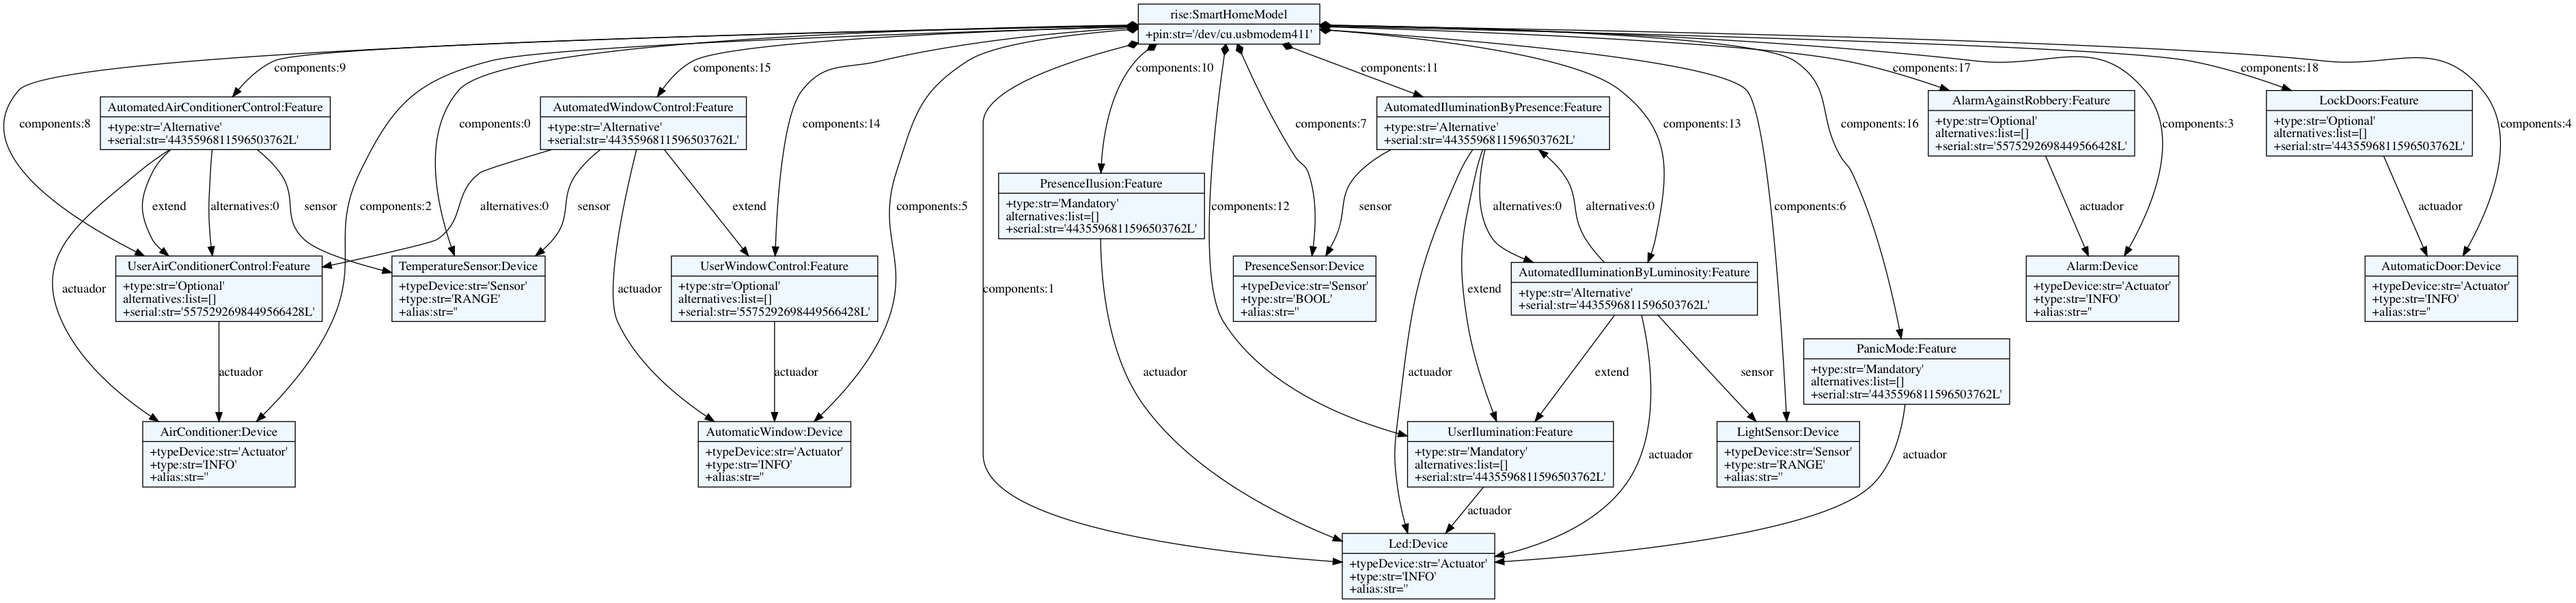
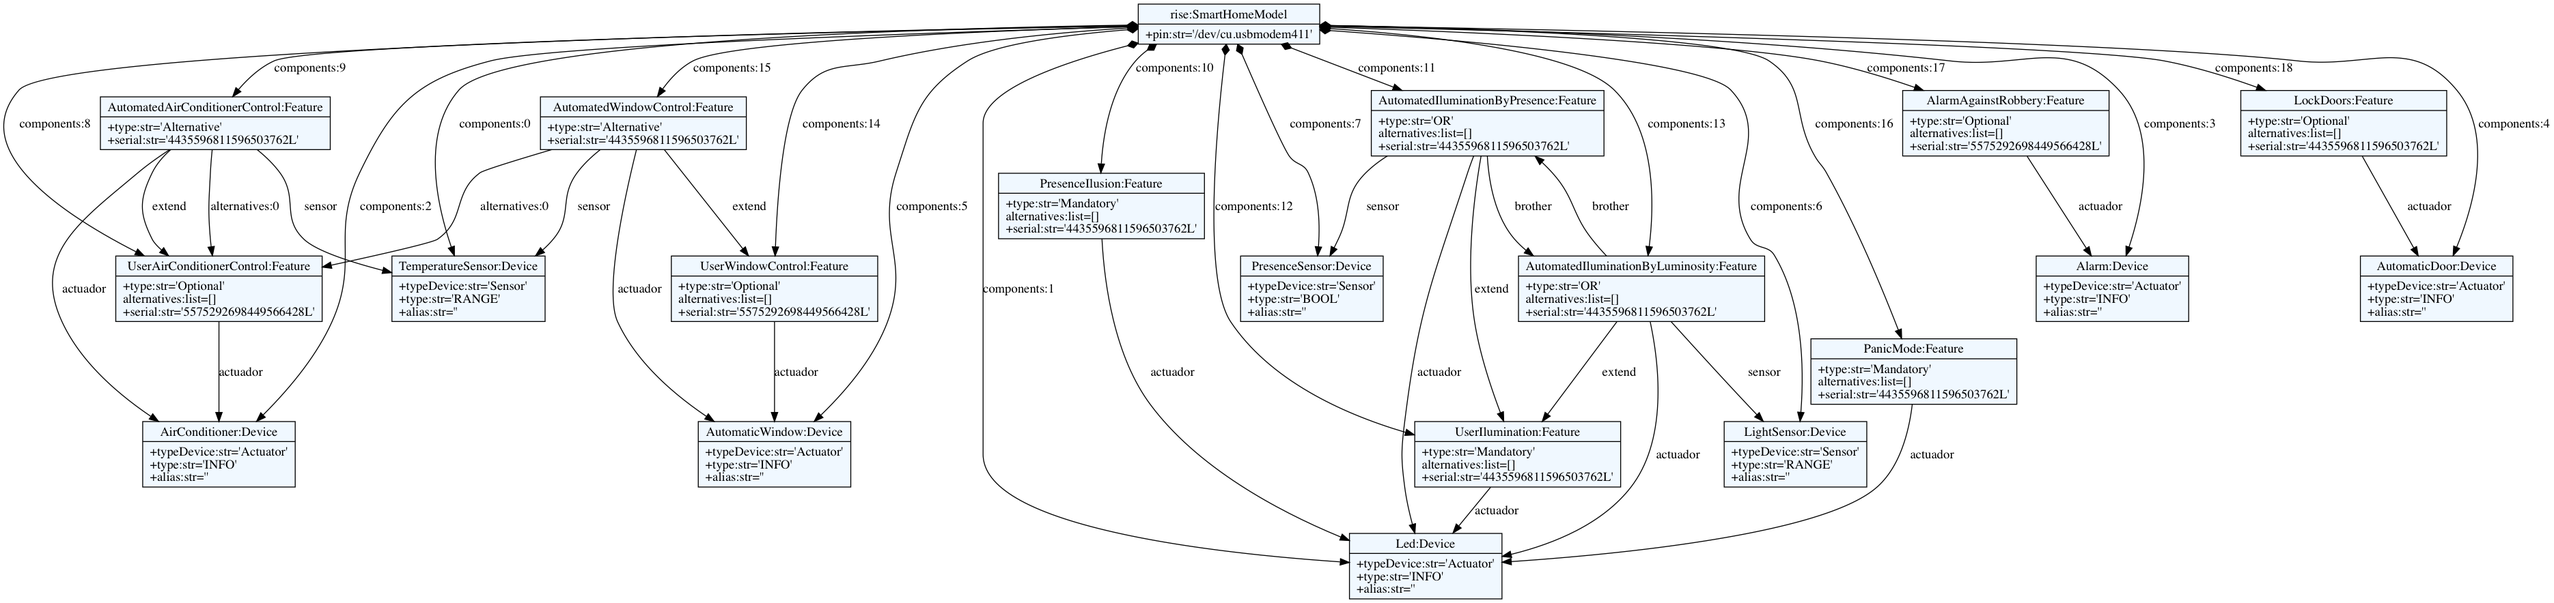
OR feature included after developers interview

diff --git a/srcgen/src/rise/smarthome/model/home/HouseFacade.java b/srcgen/src/rise/smarthome/model/home/HouseFacade.java
@@ -307,23 +307,15 @@ public class HouseFacade {
 	}
 
 	private void exchangeBrotherFeaturesData(FeatureBase featureBase,FeatureBase newFeature) {
-		if(featureBase instanceof AutomatedAirConditionerControl){
-			AutomatedAirConditionerControl automatedairconditionercontrol = (AutomatedAirConditionerControl) featureBase;
-			((AutomatedAirConditionerControl) newFeature).setTemperatureSensor(automatedairconditionercontrol.getTemperatureSensor());
+		if(featureBase instanceof AutomatedIluminationByPresence){
+			AutomatedIluminationByPresence automatediluminationbypresence = (AutomatedIluminationByPresence) featureBase;
+			((AutomatedIluminationByLuminosity) newFeature).setLeds(automatediluminationbypresence.getLeds());
 		}	
-		if(featureBase instanceof AutomatedWindowControl){
-			AutomatedWindowControl automatedwindowcontrol = (AutomatedWindowControl) featureBase;
-			((AutomatedWindowControl) newFeature).setTemperatureSensor(automatedwindowcontrol.getTemperatureSensor());
+		if(featureBase instanceof AutomatedIluminationByLuminosity){
+			AutomatedIluminationByLuminosity automatediluminationbyluminosity = (AutomatedIluminationByLuminosity) featureBase;
+			((AutomatedIluminationByPresence) newFeature).setLeds(automatediluminationbyluminosity.getLeds());
 		}	
 
-		if(featureBase instanceof AutomatedIluminationByPresence){
-			AutomatedIluminationByPresence automatedIluminationByPresence = (AutomatedIluminationByPresence) featureBase;
-			((AutomatedIluminationByLuminosity) newFeature).setLeds(automatedIluminationByPresence.getLeds());
-		}
-		if(featureBase instanceof AutomatedIluminationByLuminosity){
-			AutomatedIluminationByLuminosity automatedIluminationByLuminosity = (AutomatedIluminationByLuminosity) featureBase;
-			((AutomatedIluminationByPresence) newFeature).setLeds(automatedIluminationByLuminosity.getLeds());
-		}
 	}
 	
 	private void keepFeatureState(FeatureBase oldFeature, FeatureBase newFeature) {

diff --git a/SmartHome/src/rise/smarthome/model/home/HouseFacade.java b/SmartHome/src/rise/smarthome/model/home/HouseFacade.java
@@ -242,22 +242,14 @@ public class HouseFacade {
 
 	private void exchangeBrotherFeaturesData(FeatureBase featureBase,FeatureBase newFeature) {
 		{% for kF,value in data.items() %}
-		{% if value.feature.type == "Alternative" and value.feature.name!= "AutomatedIluminationByPresence" and value.feature.name!= "AutomatedIluminationByLuminosity" %}
+		{% if value.feature.type == "OR" %}
 		if(featureBase instanceof {{value.feature.name}}){
 			{{value.feature.name}} {{value.feature.name|lower}} = ({{value.feature.name}}) featureBase;
-			(({{value.feature.name}}) newFeature).set{{value.feature.sensor.name}}({{value.feature.name|lower}}.get{{value.feature.sensor.name}}());
+			(({{value.feature.brother.name}}) newFeature).set{{value.feature.actuador.name}}s({{value.feature.name|lower}}.get{{value.feature.actuador.name}}s());
 		}	
 		{% endif %}
 		{% endfor %}
 
-		if(featureBase instanceof AutomatedIluminationByPresence){
-			AutomatedIluminationByPresence automatedIluminationByPresence = (AutomatedIluminationByPresence) featureBase;
-			((AutomatedIluminationByLuminosity) newFeature).set{{data.AutomatedIluminationByPresence.feature.actuador.name}}s(automatedIluminationByPresence.get{{data.AutomatedIluminationByPresence.feature.actuador.name}}s());
-		}
-		if(featureBase instanceof AutomatedIluminationByLuminosity){
-			AutomatedIluminationByLuminosity automatedIluminationByLuminosity = (AutomatedIluminationByLuminosity) featureBase;
-			((AutomatedIluminationByPresence) newFeature).set{{data.AutomatedIluminationByLuminosity.feature.actuador.name}}s(automatedIluminationByLuminosity.get{{data.AutomatedIluminationByLuminosity.feature.actuador.name}}s());
-		}
 	}
 	
 	private void keepFeatureState(FeatureBase oldFeature, FeatureBase newFeature) {

diff --git a/srcgen/src/rise/smarthome/features/AutomatedIluminationByPresence.java b/srcgen/src/rise/smarthome/features/AutomatedIluminationByPresence.java
@@ -3,12 +3,10 @@ package rise.smarthome.features;
 import java.util.ArrayList;
 
 import rise.smarthome.featureModeling.AdaptableFeature;
-import rise.smarthome.featureModeling.AlternativeFeature;
+import rise.smarthome.featureModeling.ORFeature;
 import rise.smarthome.model.devices.Led;
 import rise.smarthome.model.devices.PresenceSensor;
 
-@AlternativeFeature(alternatives={
-	AutomatedIluminationByLuminosity.class})
 public class AutomatedIluminationByPresence extends UserIlumination implements AdaptableFeature {
     private ArrayList<Led> automatediluminationbypresenceToAutomate;
     private PresenceSensor presencesensor;

diff --git a/srcgen/src/rise/smarthome/features/AutomatedIluminationByLuminosity.java b/srcgen/src/rise/smarthome/features/AutomatedIluminationByLuminosity.java
@@ -3,12 +3,10 @@ package rise.smarthome.features;
 import java.util.ArrayList;
 
 import rise.smarthome.featureModeling.AdaptableFeature;
-import rise.smarthome.featureModeling.AlternativeFeature;
+import rise.smarthome.featureModeling.ORFeature;
 import rise.smarthome.model.devices.Led;
 import rise.smarthome.model.devices.LightSensor;
 
-@AlternativeFeature(alternatives={
-	AutomatedIluminationByPresence.class})
 public class AutomatedIluminationByLuminosity extends UserIlumination implements AdaptableFeature {
     private ArrayList<Led> automatediluminationbyluminosityToAutomate;
     private LightSensor lightsensor;
